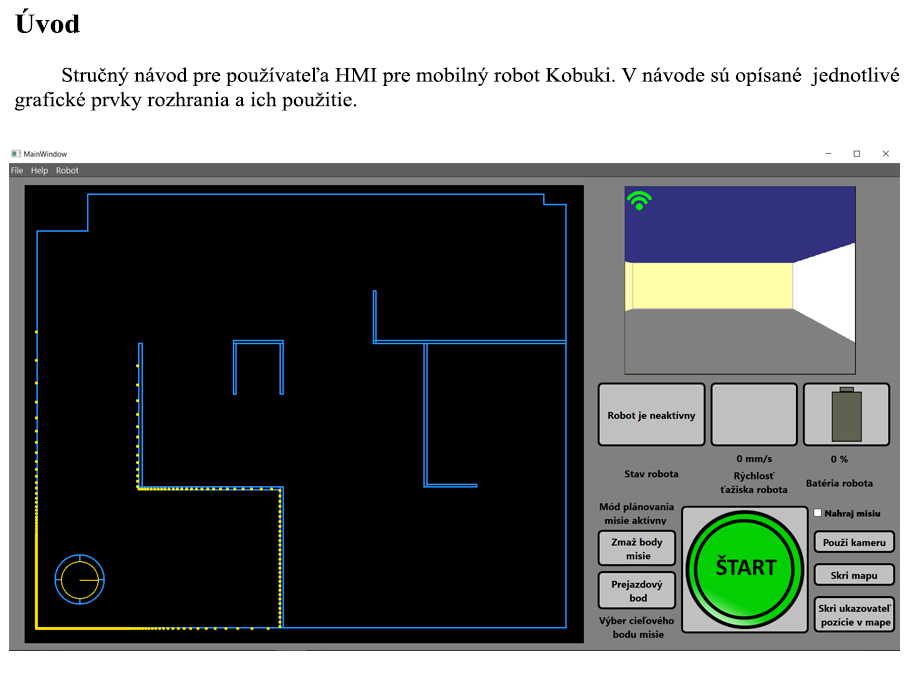
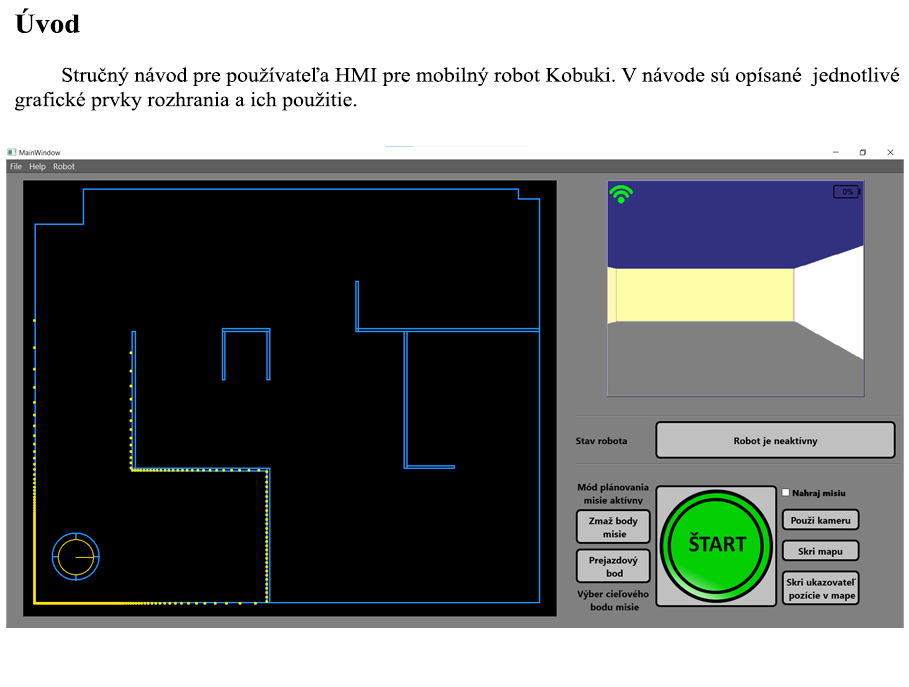
Zmeny ku obrazkom v manualy

Changed region(s): [[0.0, 0.214, 1.0, 0.9476], [0.2156, 0.4585, 0.3388, 0.5808]]

diff --git a/robot/robot.cpp b/robot/robot.cpp
@@ -32,6 +32,15 @@ WSACleanup();
 
 Robot::Robot(std::string ipaddressRobot, std::string ipaddressLaser,int laserportRobot, int laserportMe,std::function<int(LaserMeasurement)> &lascallback,int robotportRobot, int robotportMe,std::function<int(TKobukiData)> &robcallback): wasLaserSet(0),wasRobotSet(0),wasCameraSet(0)
 {
+    x = 0;
+    y = 0;
+    theta = 0;
+    w = 0;
+    v = 0;
+    nlOld = 0;
+    nrOld = 0;
+    nlCurr = 0;
+    nrCurr = 0;
     setLaserParameters(ipaddressLaser,laserportRobot,laserportMe,lascallback);
     setRobotParameters(ipaddressRobot,robotportRobot,robotportMe,robcallback);
     readyFuture=ready_promise.get_future();
@@ -390,8 +399,6 @@ double Robot::orientationRegulator(int xGoal, int yGoal, bool robotRunning)
         w = 0.0;
     }
 
-    //std::cout << "xDistToGoal=" << eXDist << ", yDistToGoal=" << eYDist << ", thetaToGoal=" << thetaToGoal << ", theta=" << theta;
-    //std::cout << ", eThetaToGoal=" << eThetaToGoal << ", w=" << w << std::endl;
     return w;
 }
 
@@ -510,6 +517,9 @@ void Robot::setRobotPose(int xPos, int yPos, float orientation)
     x = xPos;
     y = yPos;
     theta = orientation;
+    trajecX = xPos;
+    trajecY = yPos;
+    trajecTheta = orientation;
     std::cout << "Setting pose: x=" << x << ", y=" << y << ", theta=" << theta <<std::endl;
 }
 
@@ -520,10 +530,15 @@ void Robot::resetRobotPose()
     theta = 0.0;
 }
 
+bool Robot::robotTrajectorySim(int xGoal, int yGoal)
+{
+
+    return true;
+}
+
 bool Robot::emergencyStop(int dist)
 {
     if(dist >= 0 && dist < 35){  // [m]
-        std::cout << "Robot emergency stop called" << std::endl;
         return true;
     }
     return false;
@@ -610,4 +625,14 @@ void Robot::setAtGoal(bool newAtGoal)
 double Robot::getTempSpeed() const
 {
     return tempSpeed;
+}
+
+double Robot::getEXDist2() const
+{
+    return eXDist2;
+}
+
+double Robot::getEYDist2() const
+{
+    return eYDist2;
 }

diff --git a/robotGUI/mapframewidget.cpp b/robotGUI/mapframewidget.cpp
@@ -238,6 +238,11 @@ void MapFrameWidget::paintEvent(QPaintEvent*){
     }
 }
 
+const std::vector<QPoint> &MapFrameWidget::getTrajcPoints() const
+{
+    return trajcPoints;
+}
+
 void MapFrameWidget::setRobotControlOn(bool newRobotControlOn)
 {
     robotControlOn = newRobotControlOn;
@@ -431,7 +436,6 @@ void MapFrameWidget::parseMapFile()
 
 void MapFrameWidget::mousePressEvent(QMouseEvent *event){
     if(canTriggerEvents && placeGoals){
-        std::cout << "Event triggered: x=" << event->x() << "; y=" << event->y() << std::endl;
         if(points.size() < 10 && robotOnline && robotControlOn){
            points.insert(points.begin(), RobotGoal(event->x()/scale, event->y()/scale, this->pointType, this->pointColor));
         }
@@ -705,6 +709,11 @@ void MapFrameWidget::clearVectors()
 bool MapFrameWidget::getShowDisconnectWarning() const
 {
     return showDisconnectWarning;
+}
+
+void MapFrameWidget::pushBackTajcPoint(double x, double y)
+{
+    trajcPoints.push_back(QPoint(x,y));
 }
 
 void MapFrameWidget::setShowDisconnectWarning(bool newShowDisconnectWarning)

diff --git a/robot/robot.h b/robot/robot.h
@@ -87,6 +87,8 @@ public:
     void setRobotPose(int xPos, int yPos, float orientation);
     void resetRobotPose();
 
+    bool robotTrajectorySim(int xGoal, int yGoal);
+
     double getDeltaSl();
     double getDeltaSr();
     double getDeltaS();
@@ -111,6 +113,10 @@ public:
     void setAtGoal(bool newAtGoal);
 
     double getTempSpeed() const;
+
+    double getEXDist2() const;
+
+    double getEYDist2() const;
 
 private:
 
@@ -143,13 +149,16 @@ private:
     double y;
     double xdt;
     double ydt;
+    double trajecX;
+    double trajecY;
+    double trajecTheta;
 
     // Orientation regulator
     double eXDist;
     double eYDist;
     double thetaToGoal;
     double eThetaToGoal;
-    double w;
+    double w = 0;
 
     // Forward speed regulator
     double eXDist2;
@@ -166,6 +175,7 @@ private:
     double thetaToObst;
 
     double eToGoalAngle;
+
 
     bool initilize = false;
     unsigned short lastCheckTicks = 0;

diff --git a/robotGUI/mapframewidget.h b/robotGUI/mapframewidget.h
@@ -108,17 +108,22 @@ public:
 
     bool getShowDisconnectWarning() const;
 
+    void pushBackTajcPoint(double x, double y);
+
     void setShowRobotStopped(bool newShowRobotStopped);
 
     bool getShowRobotStopped() const;
 
     void setRobotControlOn(bool newRobotControlOn);
 
+    const std::vector<QPoint> &getTrajcPoints() const;
+
 protected:
     void paintEvent(QPaintEvent* event);
 
 private:
     QPoint robotImagePos;
+    std::vector<QPoint> trajcPoints;
     double imageTheta = 0.0;
 
     bool robotInitialized = false;

diff --git a/robotGUI/cameraFrameWidget.cpp b/robotGUI/cameraFrameWidget.cpp
@@ -120,7 +120,7 @@ void CameraFrameWidget::setSpeedWidget(QPainter* aPainter, int frameWidth)
     }
 
     aPainter->setFont(QFont("Segoe UI",10,450));
-    aPainter->drawText(QPoint(frameWidth-130,75),QString::number(v) + "mm/s");
+    aPainter->drawText(QPoint(frameWidth-145,75),QString::number(v, 'f', 2) + " mm/s");
 }
 
 void CameraFrameWidget::setBatteryWidget(QPainter* aPainter,int frameWidth)

diff --git a/robotGUI/mainwindow.cpp b/robotGUI/mainwindow.cpp
@@ -30,8 +30,8 @@ MainWindow::MainWindow(QWidget *parent): QMainWindow(parent), ui(new Ui::MainWin
     baseWidth = 574.0f;
     baseHeight = 471.0f;
 
-    cameraFrameWidth = 548;
-    cameraFrameHeight = 461;
+    cameraFrameWidth = 558;
+    cameraFrameHeight = 471;
 
     mapFrameWidth = 1148;
     mapFrameHeight = 942;
